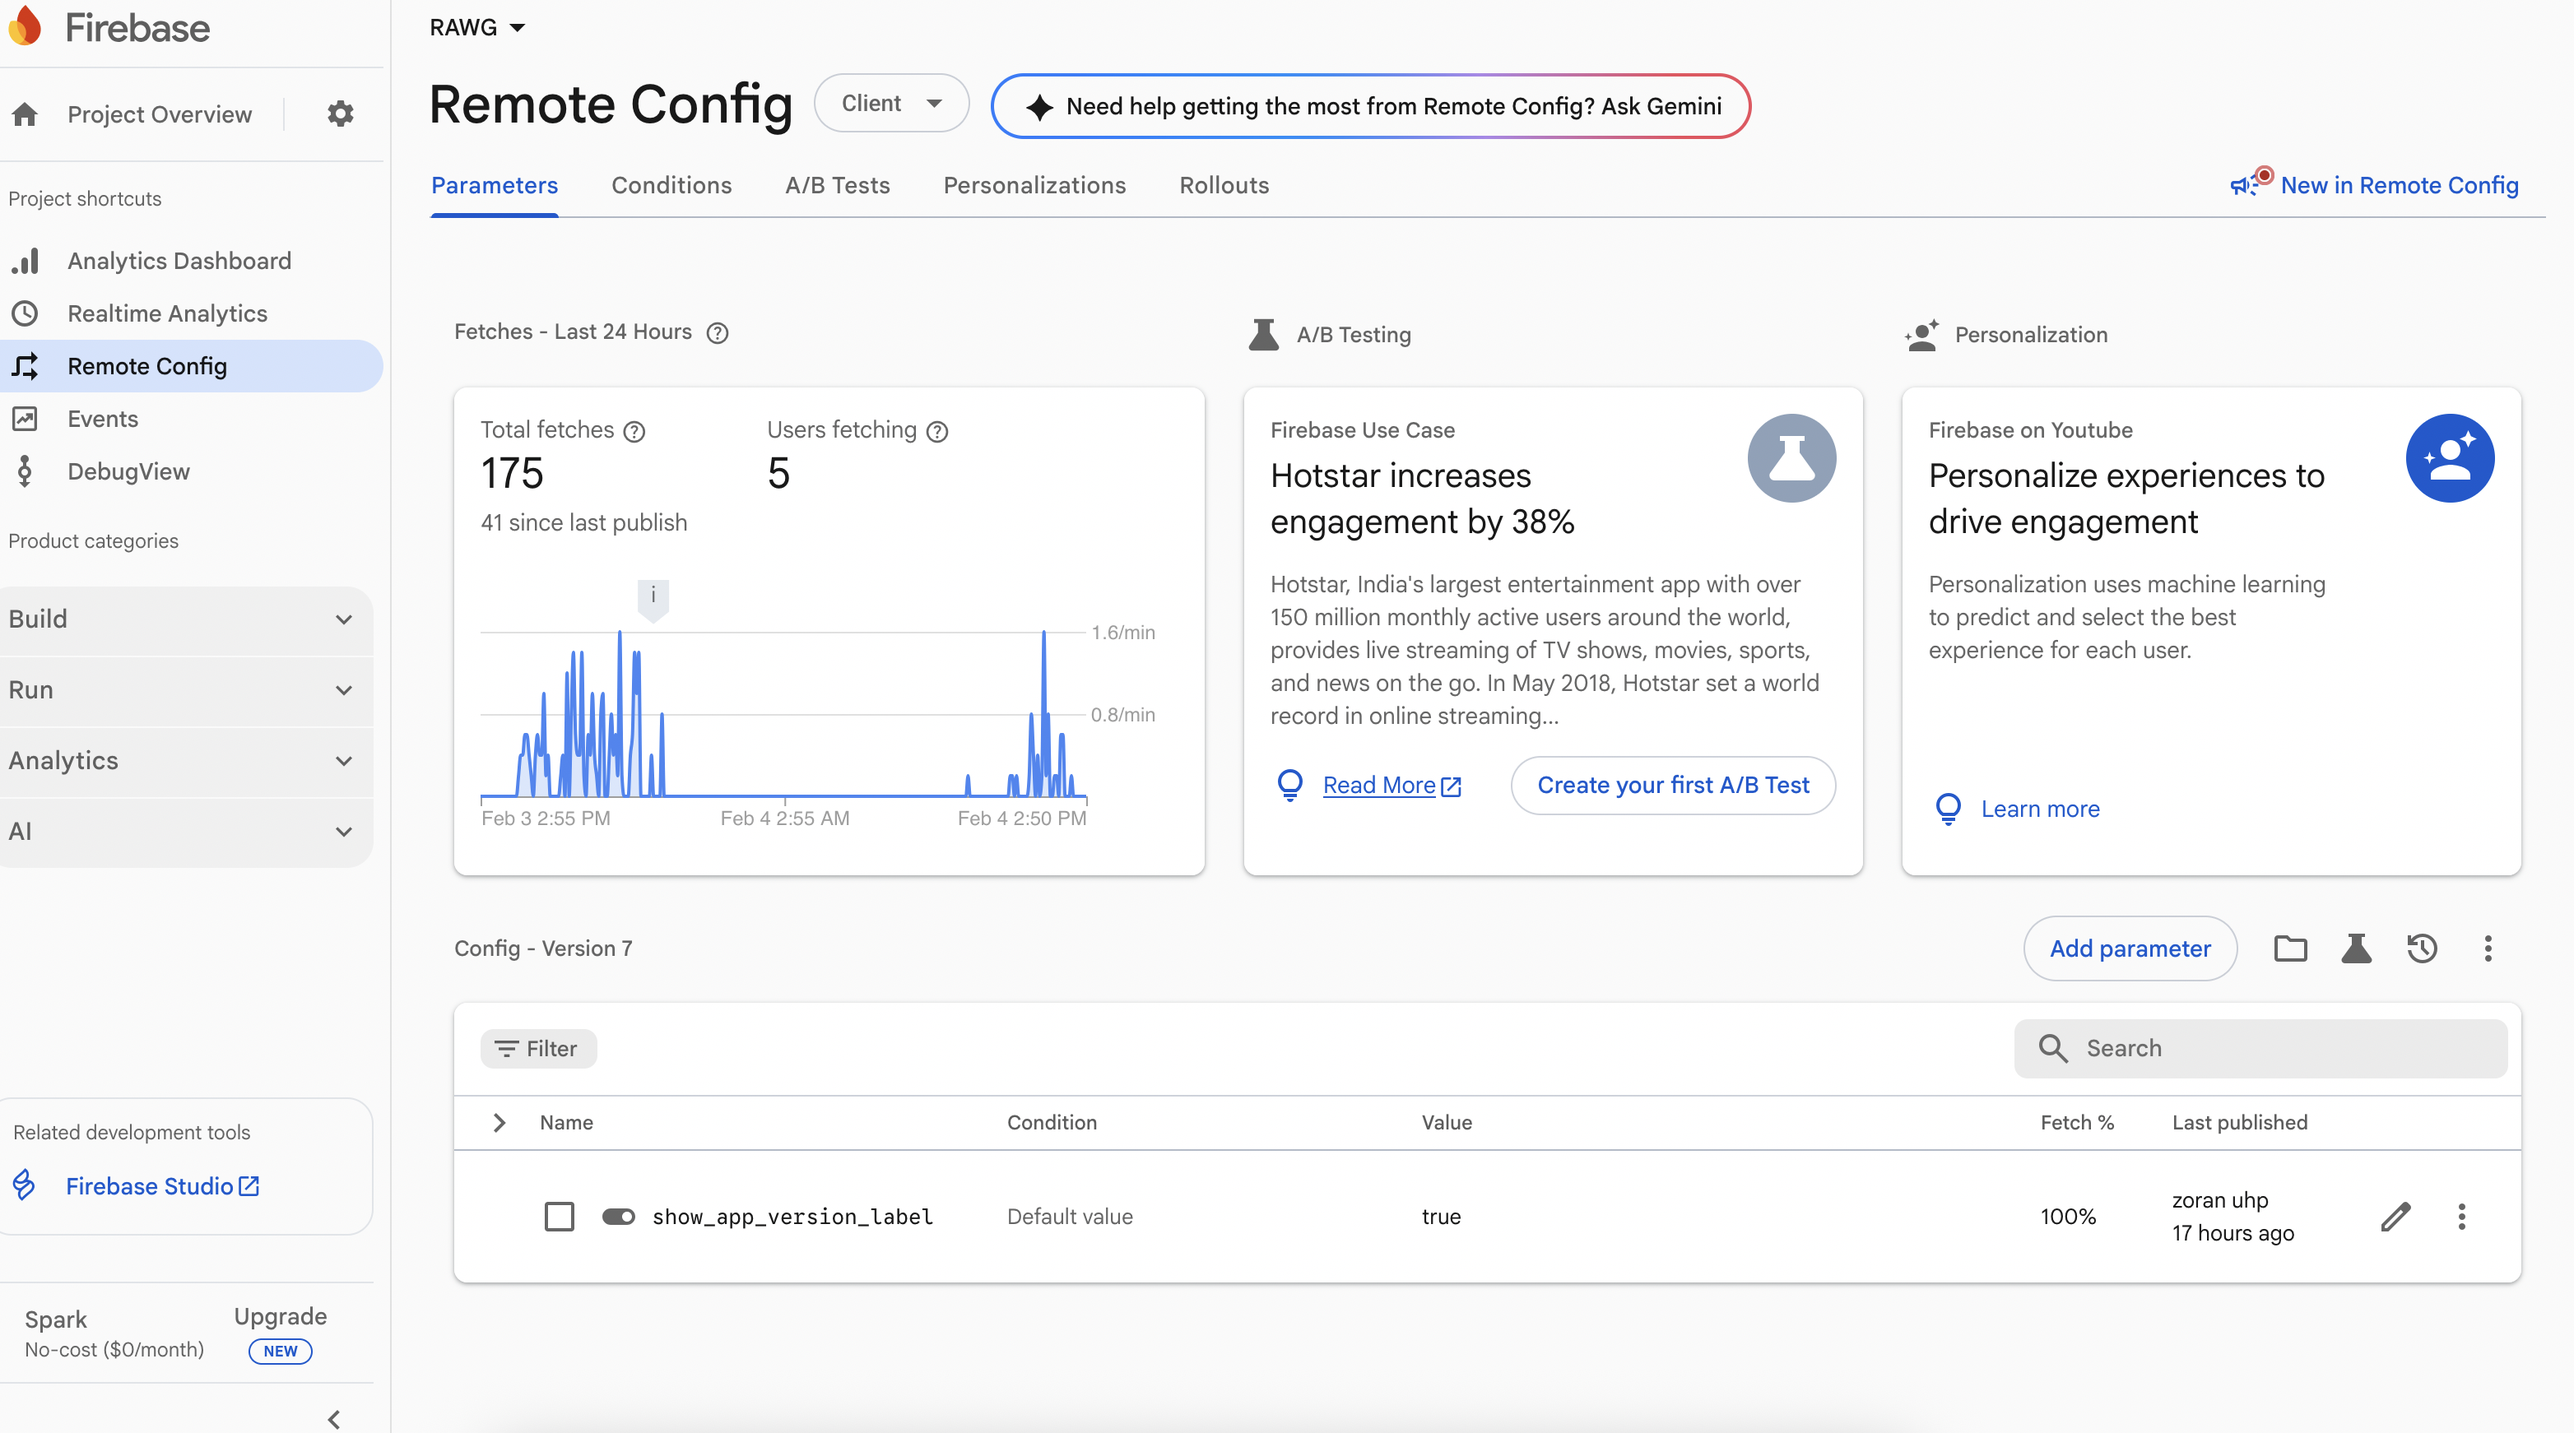
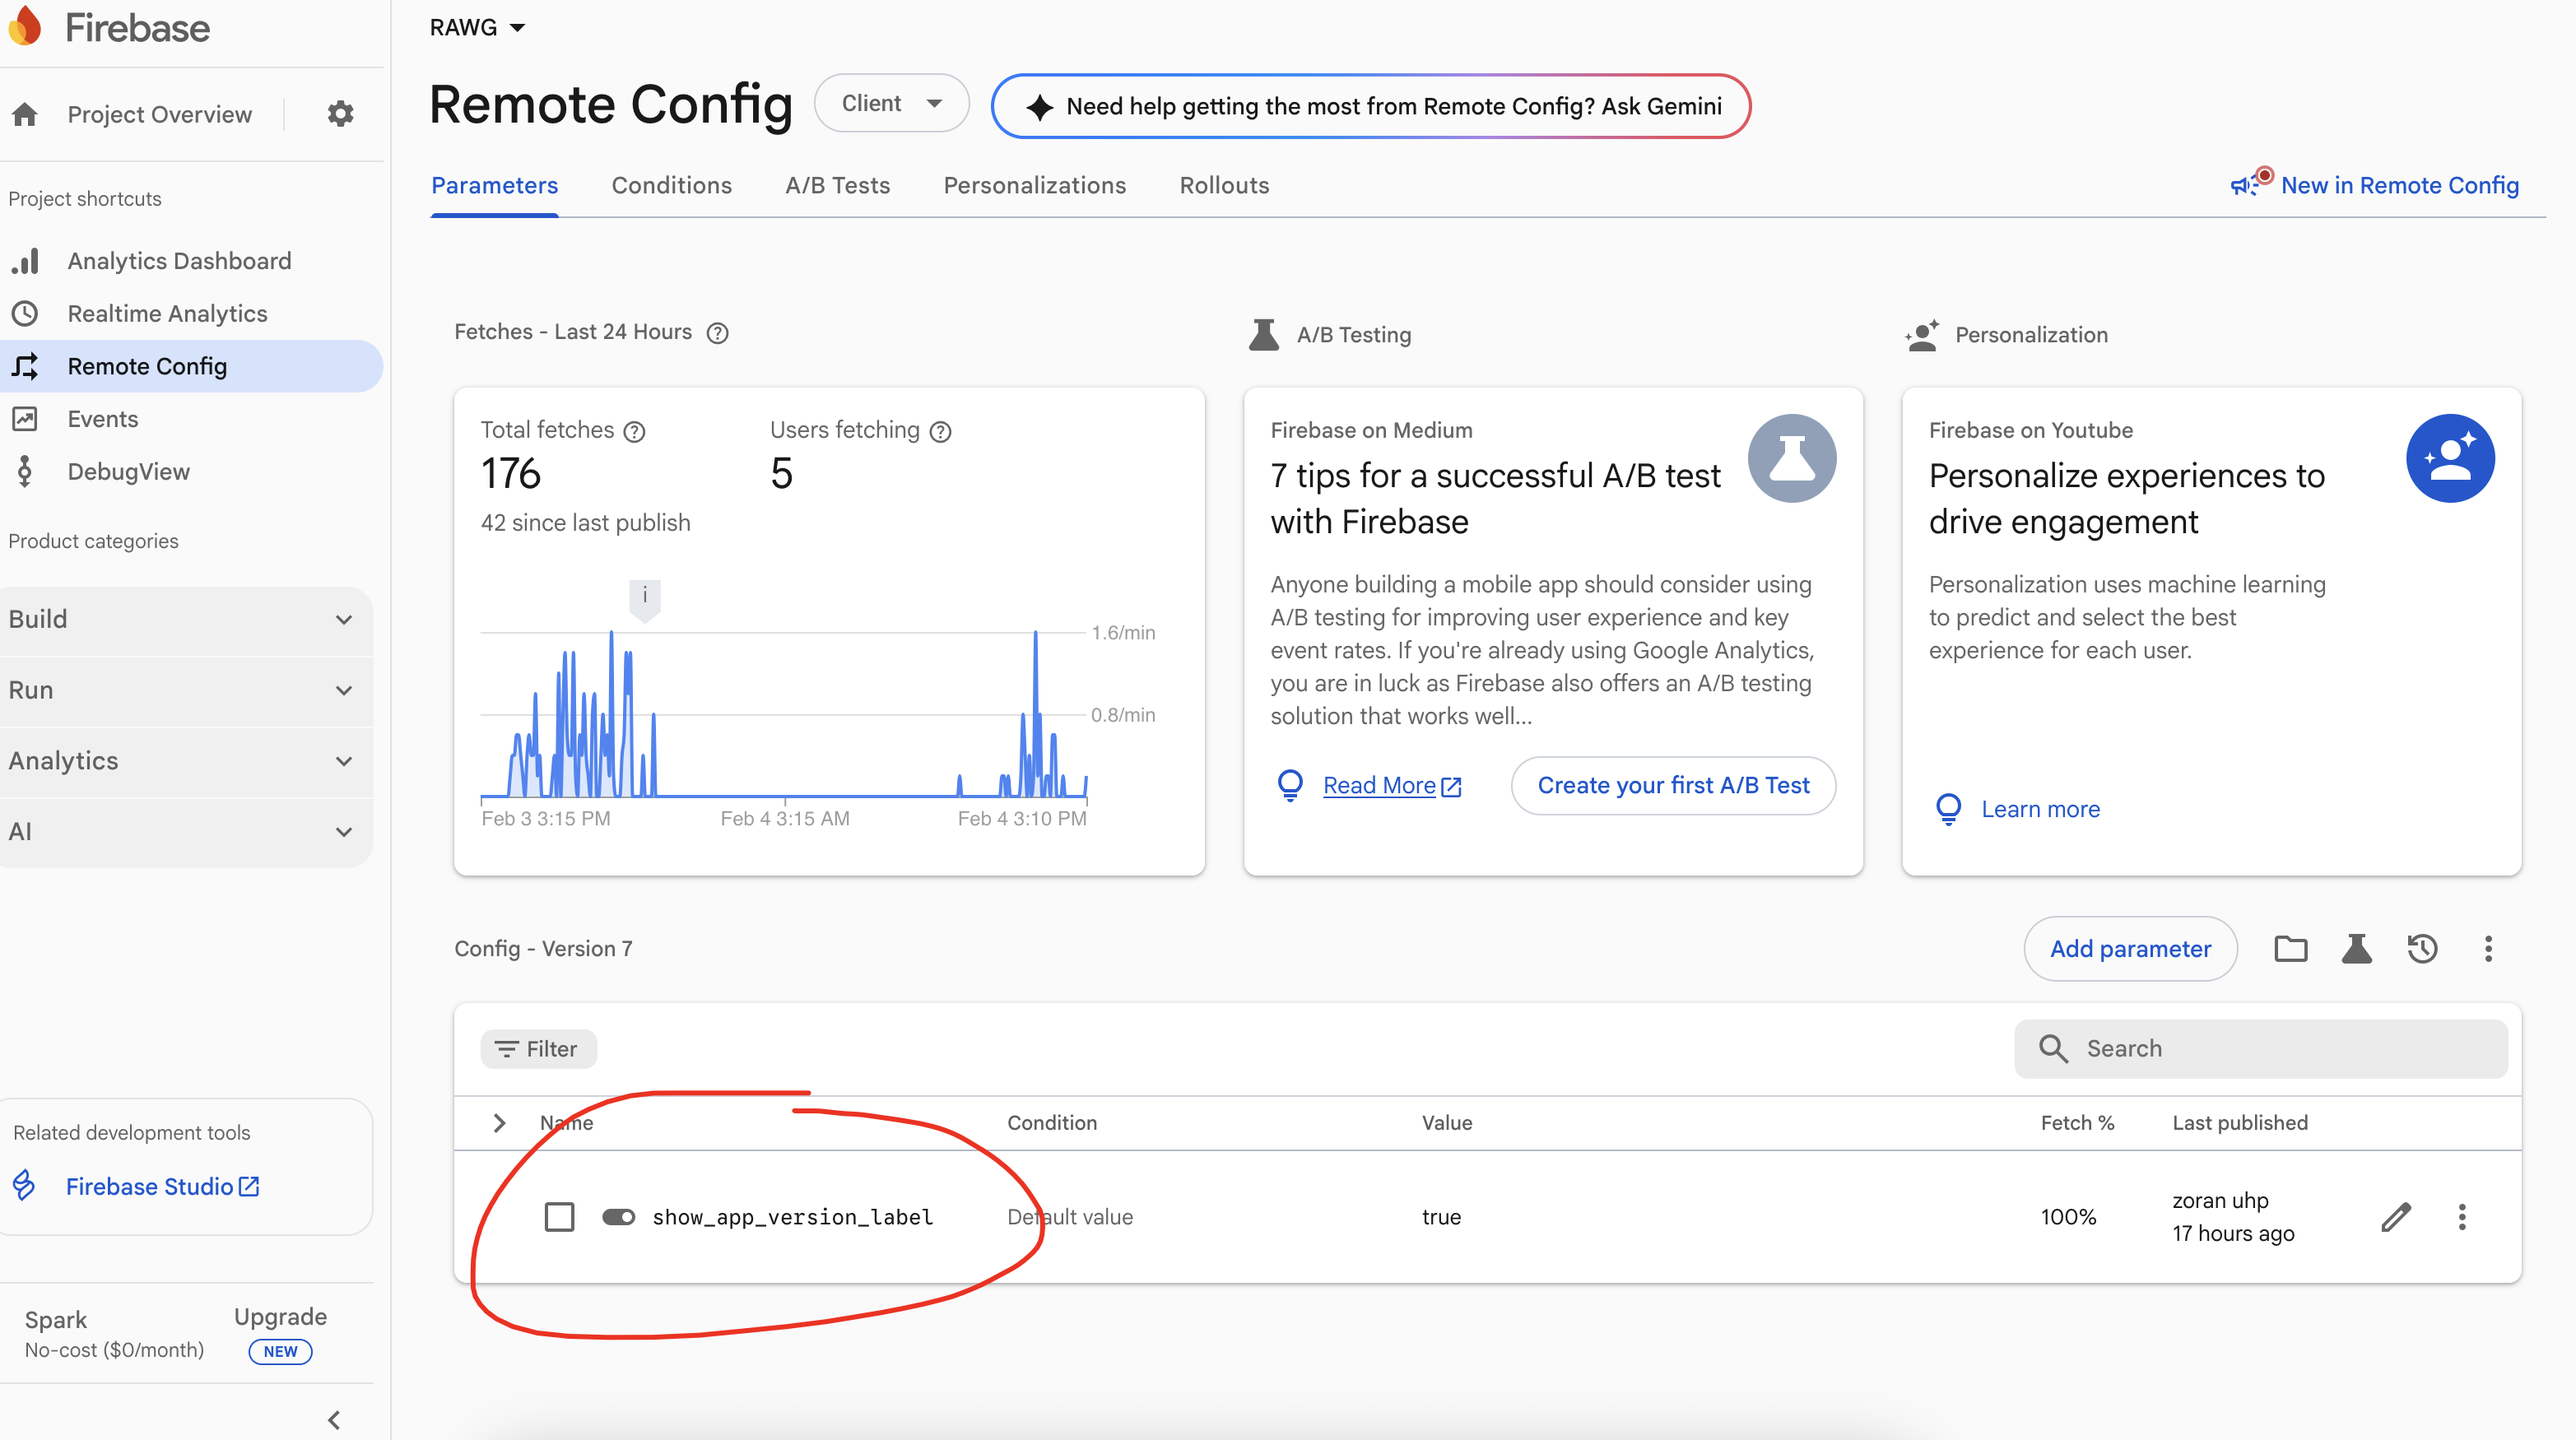
nicer readme

diff --git a/readme.md b/readme.md
@@ -1,49 +1,71 @@
-# About Project
-Application displays a list of games by selected genres from RAWG backend.
-It's built using Android Compose, ViewModel, Room, Pagination3, Navigation3, Room, Retrofit, Hilt, Coil, Firebase, Mockk, Turbine, Detekt and other modern libraries.
+# RAWG Games App
 
-| Phone - Games | Phone - Game Details | Phone - Genres |
+The application displays a list of games by selected genres from the RAWG backend.  
+It is built using Android Compose, ViewModel, Room, Pagination3, Navigation3, Retrofit, Hilt, Coil, Firebase, Mockk, Turbine, Detekt, and other modern libraries.
+
+---
+
+## Screenshots
+
+### Phone
+| Games | Game Details | Genres |
 |---------|----------|----------|
 | ![](https://raw.githubusercontent.com/zsasko/rawg/main/docs/images/phone_games.png) | ![](https://raw.githubusercontent.com/zsasko/rawg/main/docs/images/phone_game_details.png) | ![](https://raw.githubusercontent.com/zsasko/rawg/main/docs/images/phone_genres.png) |
 
-
-| Tablet - Game & Game Details |
+### Tablet
+| Game & Game Details |
 |--------|
 | ![](https://raw.githubusercontent.com/zsasko/rawg/main/docs/images/tablet.png) |
 
+---
 
-# Installation instructions
-In order to run the app please make sure that you add a RAWG API and make Firebase project (for using Analytics and RemoteConfig):
-1) Register your account in ```https://rawg.io``` and get api key.
-2) Add RAWG api key to ```local.properties``` (located in the root of the project) in key named: ```RAWG_API_KEY``` like:
+## Installation Instructions
 
-        gradle RAWG_API_KEY="key"
+To run the app, make sure to add a RAWG API key and create a Firebase project (for Analytics and RemoteConfig):
 
-3) Make a new Firebase application and add property ```show_app_version_label``` in Firebase RemoteConfig (as you can see on the image: https://raw.githubusercontent.com/zsasko/rawg/main/docs/images/firebase_remote_config.png)
-4) Make sure that you use the same package name in your Firebase project and this project.
-4) Add ```google-services.json``` file to the project.
+1. Register your account at [RAWG](https://rawg.io) and get an API key.
+2. Add your RAWG API key to `local.properties` (located in the root of the project) under the key `RAWG_API_KEY`, like this:
 
+        gradle RAWG_API_KEY="your_key_here"
 
-# Implementation details
+3. Create a Firebase application and add the property `show_app_version_label` in Firebase RemoteConfig.  
+   ![Firebase RemoteConfig](https://raw.githubusercontent.com/zsasko/rawg/main/docs/images/firebase_remote_config.png)
+4. Ensure that the package name in your Firebase project matches the package name of this project.
+5. Add the `google-services.json` file to the project.
 
-- App architecture is MVI where each viewmodel contains 'handleIntent' method which receives an intent and does some business logic.
-    - StateFlow is used for notifying UI that data has been received.
-    - Screens contain their state variables based on which appropriate layouts are displayed (error, success, loading).
-- Selected genres are saved in local database.
-    - When user clicks on genre, selected/deselected state is automatically saved in local Room db.
-- If application is loaded without internet connection, on the screen where data is fetched from internet, an appropriate error layout is displayed.
-- When data is being loaded, appropriate loading indicator is displayed.
-- Application layout is made for phones and tablets.
-    - If application orientation is in landscape and app is running on tablet, an app rail is displayed, otherwise an navigation drawer is displayed.
-    - In tablet with lanscape mode, an game list and details of first (or last user-selected game) is displayed in list-details pane.
-- In the bottom of settings screen there is a label with app version which can be removed using Firebase RemoteConfig.
-- Screen views are being tracked in Google Analytics
-- During app development latest 'pagination3' library is used in main/games screen which automatically invokes pagination (and loading data from backend).
-- For navigation latest 'navigation3' library is used with appropriate 'ListDetails' screen strategies.
-- An 'detect' plugin is imported (and generated 'baseline.xml') so when ''./gradlew detekt' is invoked, it displays issues that it has found
-- Unit tests for repositories and view models are created
-- For dependency injection a 'Hilt' library is used and for networking requests 'OkHttp' and 'Retrofit' are used
+---
 
+## Implementation Details
 
+- **Architecture:** MVI pattern where each ViewModel contains a `handleIntent` method that executes business logic.
+    - `StateFlow` is used to notify the UI of data updates.
+    - Screens display appropriate layouts based on state (error, success, loading).
+- **Genre Selection:** Selected genres are saved in the local Room database.
+    - Clicking a genre automatically updates its selected/deselected state.
+- **Offline Handling:** Displays an error layout if data cannot be fetched due to no internet connection.
+- **Loading Indicators:** Shown while data is being loaded.
+- **Responsive Layout:** Supports both phones and tablets.
+    - Tablets in landscape mode show an app rail; otherwise, a navigation drawer is used.
+    - Tablets in landscape mode display a list-details pane showing the game list and the first (or last selected) game details.
+- **Settings Screen:** Displays the app version at the bottom, configurable via Firebase RemoteConfig.
+- **Analytics:** Screen views are tracked in Google Analytics.
+- **Pagination:** Uses the `pagination3` library for automatic pagination in the main games screen.
+- **Navigation:** Uses the `navigation3` library with list-details screen strategies.
+- **Static Analysis:** The `detekt` plugin is integrated with a generated `baseline.xml`. Running `./gradlew detekt` displays issues.
+- **Testing:** Unit tests are implemented for repositories and ViewModels.
+- **Dependency Injection & Networking:** Hilt for DI, OkHttp and Retrofit for networking.
 
+---
+
+## Libraries & Tools Used
+
+- **UI & Architecture:** Android Compose, MVI, ViewModel
+- **Persistence:** Room
+- **Networking:** Retrofit, OkHttp
+- **Dependency Injection:** Hilt
+- **Image Loading:** Coil
+- **Pagination & Navigation:** Pagination3, Navigation3
+- **Testing:** Mockk, Turbine
+- **Analytics & Config:** Firebase
+- **Static Analysis:** Detekt  
 
